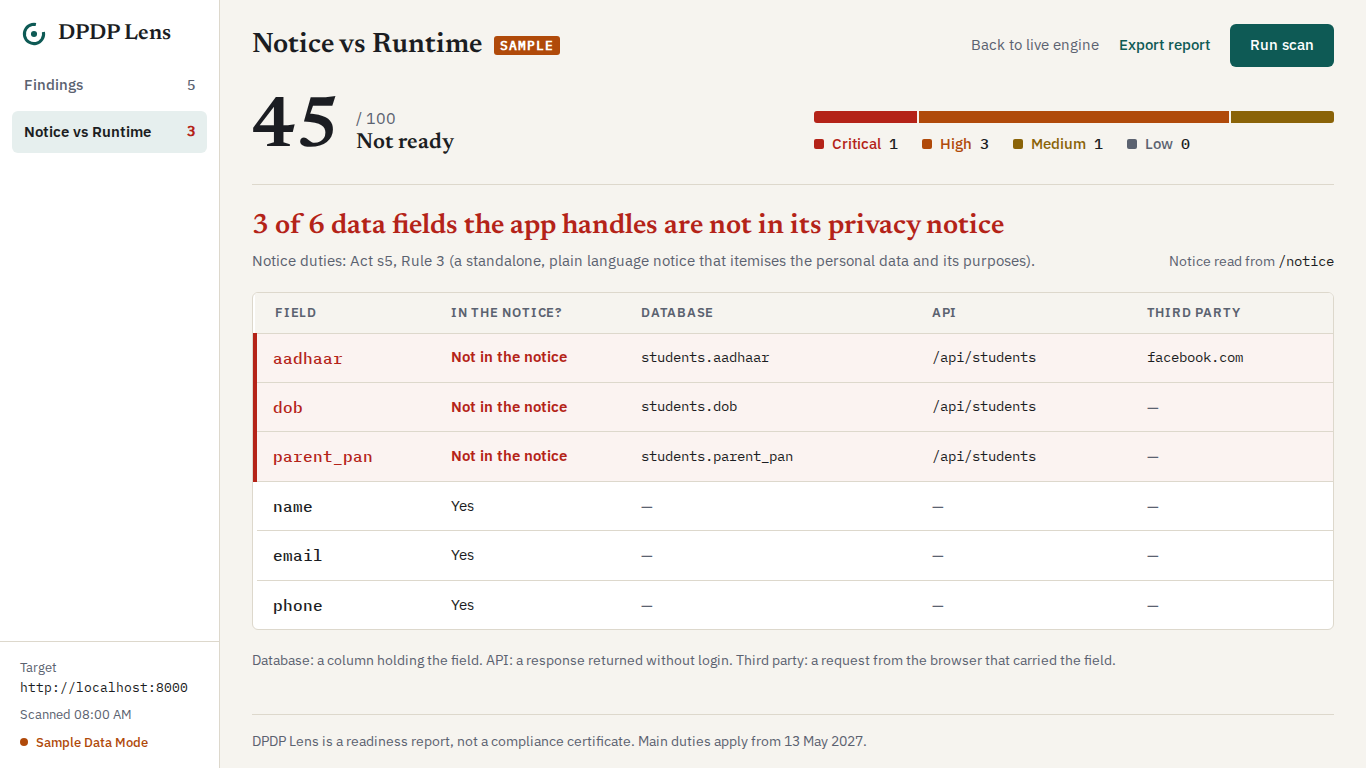
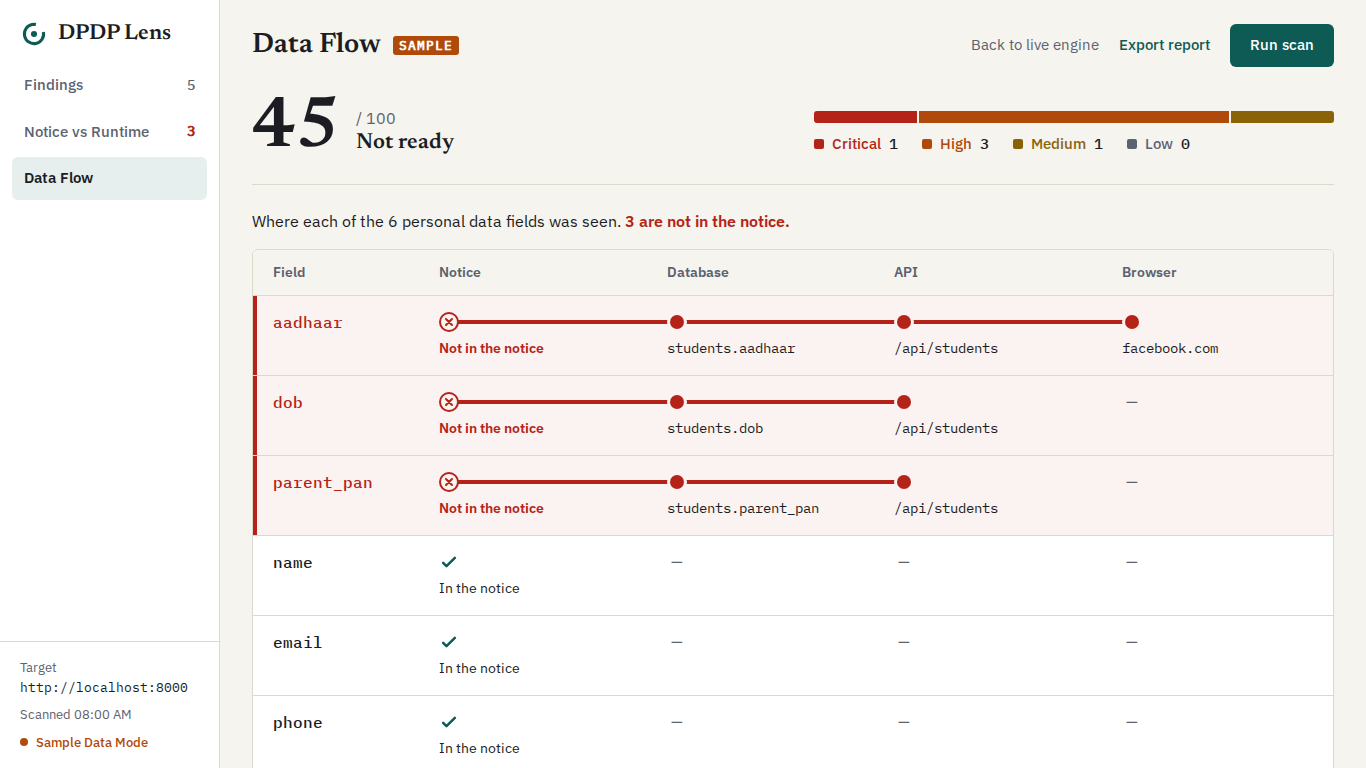
U4 and U5: Data Flow view back, drawn as one lane per field

diff --git a/dashboard/src/App.jsx b/dashboard/src/App.jsx
@@ -132,8 +132,9 @@ function layerState(steps, progress) {
   return steps.includes(progress?.step) ? 'current' : 'pending'
 }
 
-// Notice vs Runtime layer columns, by the prefix of each notice_drift.observed[].where entry.
-const DRIFT_LAYERS = [['db', 'Database'], ['api', 'API'], ['request', 'Third party']]
+// Data Flow columns after Notice. Browser = a third-party request from the page (request: entries).
+const DRIFT_LAYERS = [['db', 'Database'], ['api', 'API'], ['request', 'Browser']]
+const LANE_COLS = [['notice', 'Notice'], ...DRIFT_LAYERS]
 
 const LAYER_NAMES = { db: 'Database', code: 'Code', api: 'API', browser: 'Browser', notice: 'Notice' }
 
@@ -588,7 +589,8 @@ export default function App() {
 
   const views = [
     { key: 'findings', label: 'Findings', count: sortedFindings.length, countText: 'findings' },
-    { key: 'notice_drift', label: 'Notice vs Runtime', count: undeclaredCount, countText: 'undeclared fields', alert: undeclaredCount > 0 }
+    { key: 'notice_drift', label: 'Notice vs Runtime', count: undeclaredCount, countText: 'undeclared fields', alert: undeclaredCount > 0 },
+    { key: 'data_flow', label: 'Data Flow' }
   ]
   const showResults = hasScan && !isScanning
   const fixable = (scanData.findings || []).filter((f) => f.fix?.available)
@@ -619,7 +621,7 @@ export default function App() {
               }`}
             >
               {v.label}
-              {(hasScan || sampleMode) && (
+              {(hasScan || sampleMode) && v.count != null && (
                 <span className={`ml-auto font-mono text-[14px] tabular ${v.alert ? 'text-critical font-semibold' : 'text-muted'}`}>
                   {v.count}
                   <span className="sr-only"> {v.countText}</span>
@@ -1321,22 +1323,17 @@ export default function App() {
             </div>
 
             <div className="bg-surface border border-line rounded-[6px] overflow-x-auto">
-              <table className="w-full border-collapse text-left" aria-label="Fields by layer">
+              <table className="w-full border-collapse text-left">
                 <thead>
                   <tr className="bg-paper border-b border-line text-[13px] font-semibold uppercase tracking-[0.06em] text-muted">
-                    <th scope="col" className="pl-5 pr-4 py-2.5 font-semibold w-[180px]">Field</th>
-                    <th scope="col" className="px-4 py-2.5 font-semibold w-[190px]">In the notice?</th>
-                    {DRIFT_LAYERS.map(([, name]) => (
-                      <th key={name} scope="col" className="px-4 py-2.5 font-semibold">{name}</th>
-                    ))}
+                    <th scope="col" className="pl-5 pr-4 py-2.5 font-semibold w-[200px]">Field</th>
+                    <th scope="col" className="px-4 py-2.5 font-semibold w-[220px]">In the notice?</th>
+                    <th scope="col" className="px-4 py-2.5 font-semibold">Where it was seen</th>
                   </tr>
                 </thead>
                 <tbody>
                   {driftRows.map((row) => (
-                    <tr
-                      key={row.field}
-                      className={`border-b border-line last:border-b-0 ${row.undeclared ? 'bg-[#FBF3F1]' : ''}`}
-                    >
+                    <tr key={row.field} className={`border-b border-line last:border-b-0 ${row.undeclared ? 'bg-[#FBF3F1]' : ''}`}>
                       <th
                         scope="row"
                         className={`pl-4 pr-4 py-3 border-l-4 font-mono text-[16px] font-medium text-left ${
@@ -1354,25 +1351,19 @@ export default function App() {
                           <span className="text-muted">No</span>
                         )}
                       </td>
-                      {DRIFT_LAYERS.map(([prefix, name]) => {
-                        const seen = row.where.filter((w) => w.startsWith(`${prefix}:`)).map((w) => w.slice(prefix.length + 1))
-                        return (
-                          <td key={prefix} className="px-4 py-3">
-                            {seen.length ? (
-                              <span className="flex flex-col gap-0.5">
-                                {seen.map((loc) => (
-                                  <span key={loc} className="font-mono text-[14px] text-ink break-all">{loc}</span>
-                                ))}
+                      <td className="px-4 py-3">
+                        {row.where.length ? (
+                          <span className="flex flex-wrap gap-1.5">
+                            {row.where.map((loc) => (
+                              <span key={loc} className="font-mono text-[14px] text-ink bg-paper border border-line rounded-[4px] px-2 py-0.5">
+                                {loc}
                               </span>
-                            ) : (
-                              <span className="text-[15px] text-muted">
-                                <span aria-hidden="true">—</span>
-                                <span className="sr-only">Not seen in {name}</span>
-                              </span>
-                            )}
-                          </td>
-                        )
-                      })}
+                            ))}
+                          </span>
+                        ) : (
+                          <span className="text-[15px] text-muted">Not observed in this scan</span>
+                        )}
+                      </td>
                     </tr>
                   ))}
                 </tbody>
@@ -1380,10 +1371,136 @@ export default function App() {
             </div>
 
             <p className="text-[14px] text-muted m-0">
-              Database: a column holding the field. API: a response returned without login. Third party: a request from the
-              browser that carried the field.
+              Where it was seen: <span className="font-mono">db:</span> a database column, <span className="font-mono">api:</span> an API
+              response without login, <span className="font-mono">request:</span> a request to a third party. The Data Flow view shows
+              the same data by layer.
+            </p>
+          </section>
+        )}
+
+        {/* 6. Data Flow: where each field was seen, by layer. Built only from notice_drift. */}
+        {activeTab === 'data_flow' && !isScanning && !scanData.notice_drift && (
+          <section
+            className="bg-surface border border-line rounded-[6px] p-8 text-center flex flex-col gap-2"
+            aria-label="Data Flow"
+          >
+            <h2 className="font-serif text-[22px] font-semibold text-ink m-0">No data flow yet</h2>
+            <p className="text-[15px] text-muted m-0">
+              {hasScan
+                ? 'The engine returned no Notice vs Runtime data for this scan, so there is nothing to map.'
+                : 'Run a scan to see where each personal data field appears: notice, database, API and browser.'}
+            </p>
+          </section>
+        )}
+
+        {activeTab === 'data_flow' && !isScanning && scanData.notice_drift && (
+          <section className="flex flex-col gap-4" aria-label="Data Flow">
+            <p className="text-[16px] text-ink m-0">
+              Where each of the {totalUniqueFields} personal data fields was seen.{' '}
+              {undeclaredCount > 0 && (
+                <span className="text-critical font-semibold">
+                  {undeclaredCount} {undeclaredCount === 1 ? 'is' : 'are'} not in the notice.
+                </span>
+              )}
+            </p>
+
+            {/* Field lanes: one per field, nodes only where the engine saw the field, lines join consecutive nodes. */}
+            <div className="bg-surface border border-line rounded-[6px] overflow-x-auto">
+              <div className="min-w-[820px]">
+                <div data-testid="lane-head" className="grid grid-cols-[170px_1fr] bg-paper border-b border-line text-[14px] font-semibold text-muted">
+                  <div className="pl-5 pr-4 py-3">Field</div>
+                  <div className="grid grid-cols-4">
+                    {LANE_COLS.map(([key, name]) => (
+                      <div key={key} className="px-4 py-3">{name}</div>
+                    ))}
+                  </div>
+                </div>
+                <ul aria-label="Fields by layer" className="list-none m-0 p-0">
+                  {driftRows.map((row) => {
+                    const bg = row.undeclared ? 'bg-[#FBF3F1]' : 'bg-surface'
+                    const seenIn = (prefix) => row.where.filter((w) => w.startsWith(`${prefix}:`))
+                    // Stops: the notice mark, then every layer column where the field was seen. Segments join neighbours.
+                    const stops = [0, ...LANE_COLS.slice(1).flatMap(([prefix], k) => (seenIn(prefix).length ? [k + 1] : []))]
+                    const lineClass = row.undeclared ? 'h-1 bg-critical' : 'h-0.5 bg-accent'
+                    return (
+                      <li key={row.field} data-field={row.field} className={`grid grid-cols-[170px_1fr] border-b border-line last:border-b-0 ${bg}`}>
+                        <div
+                          className={`pl-4 pr-4 py-4 border-l-4 font-mono text-[16px] font-medium leading-5 ${
+                            row.undeclared ? 'border-l-critical text-critical' : 'border-l-transparent text-ink'
+                          }`}
+                        >
+                          {row.field}
+                        </div>
+                        <div className="relative grid grid-cols-4">
+                          {stops.slice(1).map((b, k) => {
+                            const a = stops[k]
+                            return (
+                              <span
+                                key={b}
+                                aria-hidden="true"
+                                className={`absolute rounded-full -translate-y-1/2 ${lineClass}`}
+                                style={{ top: 26, left: `calc(${a * 25}% + 26px)`, width: `${(b - a) * 25}%` }}
+                              />
+                            )
+                          })}
+                          {LANE_COLS.map(([prefix, name], col) => {
+                            if (col === 0)
+                              return (
+                                <div key={prefix} data-col="notice" className="relative px-4 py-4 flex flex-col items-start gap-1.5">
+                                  {row.undeclared ? (
+                                    <span aria-hidden="true" className={`w-5 h-5 rounded-full border-2 border-critical grid place-items-center ${bg}`}>
+                                      <svg className="w-3 h-3 text-critical" fill="none" viewBox="0 0 24 24" stroke="currentColor">
+                                        <path strokeLinecap="round" strokeWidth={4} d="M6 18L18 6M6 6l12 12" />
+                                      </svg>
+                                    </span>
+                                  ) : (
+                                    <span className={`rounded-full ${bg}`}>
+                                      <StepMarker state={row.declared ? 'done' : 'pending'} />
+                                    </span>
+                                  )}
+                                  <span className={`text-[14px] ${row.undeclared ? 'font-semibold text-critical' : 'text-ink'}`}>
+                                    {row.undeclared ? 'Not in the notice' : row.declared ? 'In the notice' : 'Not listed'}
+                                  </span>
+                                </div>
+                              )
+                            const seen = seenIn(prefix)
+                            return (
+                              <div key={prefix} data-col={prefix} className="relative px-4 py-4 flex flex-col items-start gap-1.5">
+                                {seen.length ? (
+                                  <>
+                                    <span aria-hidden="true" className={`w-5 h-5 grid place-items-center rounded-full ${bg}`}>
+                                      <span className={`rounded-full ${row.undeclared ? 'w-3.5 h-3.5 bg-critical' : 'w-3 h-3 bg-accent'}`} />
+                                    </span>
+                                    {seen.map((w) => (
+                                      <span key={w} title={w} className="font-mono text-[14px] text-ink break-all cursor-help">
+                                        {w.slice(prefix.length + 1)}
+                                        <span className="sr-only"> ({w})</span>
+                                      </span>
+                                    ))}
+                                  </>
+                                ) : (
+                                  <span className={`h-5 px-1 leading-5 text-[15px] text-muted ${bg}`}>
+                                    <span aria-hidden="true">—</span>
+                                    <span className="sr-only">Not seen in {name}</span>
+                                  </span>
+                                )}
+                              </div>
+                            )
+                          })}
+                        </div>
+                      </li>
+                    )
+                  })}
+                </ul>
+              </div>
+            </div>
+
+            <p className="text-[14px] text-muted m-0">
+              Notice: the field is listed in the privacy notice at <span className="font-mono">/notice</span>. Database: a column
+              holding the field. API: a response returned without login. Browser: a request from the signup page to a third party
+              that carried the field. A dash means the scan did not see the field there.
               {!driftRows.some((r) => r.where.some((w) => w.startsWith('request:'))) &&
-                ' No third-party request carried a field in this scan. Trackers are reported as findings (see "Tracking script loads before any consent").'}
+                ' No third-party request was seen as a drift field in this scan, so the Browser column is empty. Trackers are reported as findings (see "Tracking script loads before any consent").'}
             </p>
           </section>
         )}

diff --git a/scripts/gates/gate_data_flow.py b/scripts/gates/gate_data_flow.py
@@ -1,5 +1,5 @@
-"""Where each field was seen: the layer columns of the Notice vs Runtime table (the old Data Flow tab is merged into it),
-built from notice_drift.observed. Sample mode and a live scan. Needs the demo stack."""
+"""The Data Flow view: one lane per field across Notice, Database, API, Browser, built from notice_drift.observed.
+Sample mode and a live scan. Needs the demo stack."""
 from playwright.sync_api import sync_playwright
 
 import common as c
@@ -7,13 +7,26 @@ import common as c
 DASH = "—"  # empty layer cell
 
 
+COLS = ("notice", "db", "api", "request")
+
+
 def rows(page):
-    """field -> [in the notice, database, api, third party] as shown, in table order."""
+    """field -> [notice, database, api, browser] cell text, in lane order."""
     out = {}
-    for r in page.locator('table[aria-label="Fields by layer"] tbody tr').all():
-        cells = [x.inner_text().strip() for x in r.locator("th, td").all()]
-        out[cells[0]] = [x.split("\n")[0] if x.startswith(DASH) else x for x in cells[1:]]  # drop the sr-only "Not seen in ..."
+    for lane in page.locator('ul[aria-label="Fields by layer"] > li').all():
+        cells = [lane.locator(f'[data-col="{k}"]').inner_text().strip() for k in COLS]
+        out[lane.get_attribute("data-field")] = [x.split("\n")[0] if x.startswith(DASH) else x for x in cells]  # drop the sr-only text
     return out
+
+
+def header(page):
+    return page.get_by_test_id("lane-head").inner_text().split("\n")
+
+
+def lines(page, field):
+    """Line segments drawn in a lane: (left style, thickness class)."""
+    return page.locator(f'li[data-field="{field}"] span[aria-hidden="true"].absolute').evaluate_all(
+        "els => els.map(e => [e.style.left, e.className.includes('h-1 ') ? 'thick' : 'thin'])")
 
 
 g = c.Gate("data_flow")
@@ -22,33 +35,37 @@ with sync_playwright() as p:
     page = c.new_page(b, errs)
     c.use_sample_mode(page)
     page.get_by_role("button", name="Use sample data").click()
-    g.check("no separate Data Flow tab", page.get_by_role("button", name="Data Flow").count() == 0)
-    page.get_by_role("button", name="Notice vs Runtime").click()
+    page.get_by_role("button", name="Data Flow").click()
+    g.check("columns: Field, Notice, Database, API, Browser", header(page) == ["Field", "Notice", "Database", "API", "Browser"], str(header(page)))
     r = rows(page)
     g.check("sample: undeclared rows first", set(list(r)[:3]) == {"aadhaar", "dob", "parent_pan"}, str(list(r)))
-    g.check("sample: aadhaar seen in DB, API and facebook.com",
+    g.check("sample: aadhaar not in the notice, seen in DB, API and the browser (facebook.com)",
             r["aadhaar"][0] == "Not in the notice" and "students.aadhaar" in r["aadhaar"][1]
             and "/api/students" in r["aadhaar"][2] and "facebook.com" in r["aadhaar"][3], str(r["aadhaar"]))
-    g.check("sample: dob and parent_pan in DB and API, no third party",
+    g.check("sample: dob and parent_pan in DB and API, not in the browser",
             all(r[f][1] != DASH and r[f][2] != DASH and r[f][3] == DASH for f in ("dob", "parent_pan")))
-    g.check("sample: name, email, phone in the notice", all(r[f][0] == "Yes" for f in ("name", "email", "phone")))
+    g.check("sample: name, email, phone in the notice", all(r[f][0] == "In the notice" for f in ("name", "email", "phone")))
+    g.check("sample: aadhaar has 3 thick red segments (notice to DB, API, browser), name has none",
+            [t for _, t in lines(page, "aadhaar")] == ["thick"] * 3 and lines(page, "name") == [], str(lines(page, "aadhaar")))
     g.check("sample: no old drawing text", all(x not in c.body(page) for x in ("tracker (V5)", "3rd Party", "Cross-Layer")))
     c.shot(page, "data-flow-sample")
 
     page.unroute(f"{c.ENGINE}/**")
     c.open_live(page)
-    page.get_by_role("button", name="Notice vs Runtime").click()
-    g.check("live before scan: empty state", page.get_by_text("No drift data yet").is_visible())
+    page.get_by_role("button", name="Data Flow").click()
+    g.check("live before scan: empty state", page.get_by_text("No data flow yet").is_visible())
     c.run_scan(page)
-    page.get_by_role("button", name="Notice vs Runtime").click()
+    page.get_by_role("button", name="Data Flow").click()
     r = rows(page)
     g.check("live: undeclared aadhaar, dob, parent_pan first, each in DB and API",
             set(list(r)[:3]) == {"aadhaar", "dob", "parent_pan"}
             and all(r[f][0] == "Not in the notice" and r[f][1] != DASH and r[f][2] != DASH for f in ("aadhaar", "dob", "parent_pan")), str(r))
-    g.check("live: no third-party column entries", all(v[3] == DASH for v in r.values()), str(r))
-    g.check("live: declared fields not flagged", all(r[f][0] == "Yes" for f in ("name", "email", "phone") if f in r))
+    g.check("live: Browser column empty", all(v[3] == DASH for v in r.values()), str(r))
+    g.check("live: declared fields not flagged", all(r[f][0] == "In the notice" for f in ("name", "email", "phone") if f in r))
+    g.check("live: email line is thin, dob line is thick, 2 segments each",
+            [t for _, t in lines(page, "email")] == ["thin", "thin"] and [t for _, t in lines(page, "dob")] == ["thick", "thick"])
     t = c.body(page)
-    g.check("live: tracker caption", "Trackers are reported as findings" in t)
+    g.check("live: footnote says no third-party request was seen", "No third-party request was seen as a drift field" in t)
     g.check("live: no hardcoded drawing text", all(x not in t for x in ("tracker (V5)", "3rd Party", "Facebook")))
     c.shot(page, "data-flow-live")
     g.check("no console errors", not c.real_errors(errs), "; ".join(errs))

diff --git a/scripts/gates/gate_rehearsal.py b/scripts/gates/gate_rehearsal.py
@@ -1,4 +1,4 @@
-"""The docs/demo-script.md path on the live stack, with timings: scan, critical finding, fix V1, drift,
+"""The docs/demo-script.md path on the live stack, with timings: scan, critical finding, fix V1, drift, data flow,
 V3 and V5 fixes, report. Needs the demo stack (./run_demo.sh)."""
 import re
 import time
@@ -60,6 +60,8 @@ with sync_playwright() as p:
     t = c.body(page)
     g.check("drift headline and 3 undeclared rows", "3 of 6 data fields the app handles are not in its privacy notice" in t and t.lower().count("not in the notice") == 3)
     c.shot(page, "rehearsal-3-drift")
+    page.get_by_role("button", name="Data Flow").click()
+    page.get_by_role("list", name="Fields by layer").wait_for(); lap("data flow view")
     page.get_by_role("button", name="Findings").click()
     v3 = c.fix_and_wait(page, "Personal data written to logs"); lap("fix V3")
     g.check("V3 live, verified, 18 to 28", v3["mode"] == "live" and v3["finding"]["fix"]["verified"] and (v3["score_before"], v3["score_after"]) == (18, 28),

diff --git a/docs/demo-script.md b/docs/demo-script.md
@@ -20,12 +20,13 @@ This replaces the numbers in the script in docs/11. Everything below was run end
 | 1:15 | Diff and three ticks appear (Re-scan passed, Tests passed, Verified) | "Re-scan passed, tests passed, verified. The original code is untouched." |
 | 1:30 | Point at the score: the big number counts up to 18, next to it "Score change 0 to 18" | "18 points, proven, not claimed. The score is floored at 0, so the real swing is 20." |
 | 1:35 | Click **Notice vs Runtime** | "The notice lists name, email and phone. The app also handles date of birth, Aadhaar and parent PAN. 3 of 6 fields the app handles are not in its privacy notice. That gap is what a regulator cares about." |
+| 1:50 | Click **Data Flow** (optional, 5 seconds) | "One lane per field. Red lanes start at a cross: Aadhaar, date of birth and parent PAN sit in the database and come out of the API without login, and the notice never mentions them." |
 | 1:55 | | "Readiness report, not a certificate. Thank you." |
 
 If there is time, or a judge asks: fix the next ones live, about 3 seconds each. In click order after V1 (0 to 18): V2 IDOR 38, V3 logs 48, V5 tracker 58, V6 consent 63, V7 erasure 73, V8 minors 83. The Findings tab then shows 3 left open (plaintext columns, notice drift, missing contact).
 
 ## Facts to say correctly
-- The tracker is shown as its own finding ("Tracking script loads before any consent"), not as a field in the Notice vs Runtime tab. Do not say the drift tab shows the tracker. In live mode the Third party column is empty on purpose (a caption says trackers are reported as findings).
+- The tracker is shown as its own finding ("Tracking script loads before any consent"), not as a field in the Notice vs Runtime tab. Do not say the drift tab shows the tracker. In live mode the Data Flow Browser column is empty on purpose (the footnote says no third-party request was seen as a drift field and trackers are reported as findings).
 - The sample data mode has its own numbers (score 45, a `facebook.com` request in the drift tab) and is labelled "Sample Data Mode". Do not mix them up with live numbers.
 - 7 findings have a verified fix (V1, V2, V3, V5, V6, V7, V8). Plaintext columns (V4), the notice drift and the missing contact show a disabled "No fix template yet" button. Fixing all seven moves the score 0 to 83. Two fixes are partial: V8 only requires a well-formed parent PAN (the parent is not verified), V6 fixes the box but not the notice.
 - Under-18 signup without parental consent (V8) is detected (high, Act s9(1), Rule 10) but has no verified fix yet.
@@ -49,7 +50,7 @@ Restart the engine alone: `cd engine && ../.venv/bin/python -m uvicorn dpdp_lens
 - Chrome or Chromium must be installed for the browser findings. Not tested without it; expect the browser findings to be missing, like with the frontend down.
 
 ## How to run the gates
-`scripts/run_gates.sh` runs six Playwright gates (83 checks) against the demo stack and prints PASS or FAIL per gate. It exits 1 if any gate fails. Run it before every demo and after every change to the engine or the dashboard (about 70 seconds).
+`scripts/run_gates.sh` runs six Playwright gates (85 checks) against the demo stack and prints PASS or FAIL per gate. It exits 1 if any gate fails. Run it before every demo and after every change to the engine or the dashboard (about 70 seconds).
 
     scripts/run_gates.sh
 
@@ -57,7 +58,7 @@ Restart the engine alone: `cd engine && ../.venv/bin/python -m uvicorn dpdp_lens
 - All 4 already up: it reuses them. A mix of up and down ports: it stops and says so.
 - It re-seeds `demo.db` at the end. A single gate can be run alone, for example `.venv/bin/python scripts/gates/gate_rehearsal.py` (stack must be up).
 - Settings: `DASH_URL` (default http://localhost:5174), `ENGINE_URL` (default http://localhost:8100), `SHOT_DIR` (default `docs/fallback-shots`).
-- The gates are: `rehearsal` (the demo path with timings), `all_fixes` (7 live fixes, score 0 to 83), `children`, `data_flow` (the layer columns of the Notice vs Runtime table), `offline` (engine unreachable, sample mode), `fix_states` (cached label, fix error, unverified, the Use cached result link).
+- The gates are: `rehearsal` (the demo path with timings), `all_fixes` (7 live fixes, score 0 to 83), `children`, `data_flow` (the Data Flow field lanes), `offline` (engine unreachable, sample mode), `fix_states` (cached label, fix error, unverified, the Use cached result link).
 - The `offline` and `fix_states` gates block or rewrite requests in the browser. They never stop a server.
 - The numbers in `scripts/gates/common.py` are the demo facts (10 findings, score 0, the fix order). If the checks or scores change, update them there.
 - A run rewrites the screenshots in `docs/fallback-shots/`. `fix-cached-label`, `fix-error-banner` and `fix-unverified` show simulated states (the engine's answer is rewritten in the browser), not a real failure.

diff --git a/docs/STATUS-tanish.md b/docs/STATUS-tanish.md
@@ -42,6 +42,10 @@
 
 - [x] U3 real scan and fix pacing (on branch ui-redesign, the user did not ask for a separate branch). Engine, additive only: verify_fix measures copy, patch (includes a frontend build), start, rescan, tests with time.monotonic and returns Verification.log {steps [{step, ms}], total_ms, sandbox, port, rescan_check, rescan_findings, rescan_result, pytest_summary (pytest's last line)}; POST /findings/{id}/fix adds `verification` (null for a cached result); the running scan status adds `steps_ms` (finished steps with measured ms); new GET /scan/{id}/timings (memory only). ScanResult unchanged, so contract/finding.schema.json is unchanged; docs/03 documents the new fields. Tests: test_verify V1 checks the log, test_fix_api checks live log vs cached null, test_persistence checks steps_ms and the timings route (engine suite 183 passed). Dashboard: no timer-driven progress left (the 850 ms fix ticker, the simulated sample ticker and the 1.8 s sample scan delay are gone). Scan: layers tick from real progress with measured durations, each new step visible at least 600 ms (polling waits), final all-done state with the timings route, real elapsed clock. Fix: real elapsed clock while the engine works, then the engine's 5 measured steps are replayed at 600 ms each, step names now "Start the patched app" and "Re-scan the patched app" (the engine runs a full re-scan, not only the failed check). Verification log under the diff from the live run only. Durations under 1 s show in ms. Gates: rehearsal checks a measured layer duration during the scan and the V1 log (timed steps, port, "N passed", finding gone), saves fix-verification-log.png; fix_states and offline check that cached and sample results have no log. run_gates.sh 6 of 6, 83 checks, from a clean shell, demo.db re-seeded. Not done: live step ticking during a fix (would need streaming or polling from the fix endpoint).
 
+- [x] U4 Data Flow view restored (dashboard/src/App.jsx, on branch ui-redesign): third rail item "Data Flow" (no count), own page with a field by layer matrix built only from notice_drift: rows are the reported fields, undeclared first with a red rule and "Not in the notice", columns Notice, Database, API, Browser (Browser = request: entries, the third party host), a tick plus the location where seen or a dash with sr-only "Not seen in ...", text 14px or more, table fills its card, plain-language footnote (live: no third-party request was seen as a drift field, so Browser is empty; trackers are findings). Empty state "No data flow yet". Notice vs Runtime is back to Field | In the notice? | Where it was seen (U1.3 form) so the two views do not duplicate. Gates: gate_data_flow.py rewritten for the view (13 checks: column headers, order, aadhaar in DB, API and facebook.com in sample, live Browser empty, footnote, empty state), rehearsal clicks Data Flow again. run_gates.sh 6 of 6, 83 checks, from a clean shell, demo.db re-seeded. docs/demo-script.md Data Flow step back.
+
+- [x] U5 Data Flow field lanes (dashboard/src/App.jsx, branch ui-redesign): the matrix table became lanes (React and CSS, no library), one per field, undeclared first, columns Notice, Database, API, Browser (LANE_COLS). A node only where notice_drift.observed says the field was seen, with the short location label (prefix stripped) always visible and the full location on hover (title) and for screen readers (sr-only); a dash where not seen. Lines join consecutive stops (the notice mark, then each column with a node), crossing an empty column if there is a gap: undeclared lanes a thick red line from a hollow red cross with "Not in the notice", declared lanes a thin teal line from a check, a field seen nowhere has no line. Headline sentence and footnote kept, Browser column kept when empty. Gates: gate_data_flow.py reads lanes via data-field and data-col and the lane-head test id, plus 2 new checks on segment count and thickness (15 checks); rehearsal waits for the lanes list. run_gates.sh 6 of 6, 85 checks, from a clean shell, demo.db re-seeded. Not checked: narrow screens (the lanes scroll sideways below 820px).
+
 ## Notes for later
 - V3 patch snippet is `logger.info("signup email=%s aadhaar=%s", req.email, req.aadhaar)` in app/main.py. V1 snippet is under `# PLANTED V1` in app/main.py.
 - Engine and fix-loop tests must use a temp copy of the DB through TUTORNEST_DB so demo.db stays clean.
